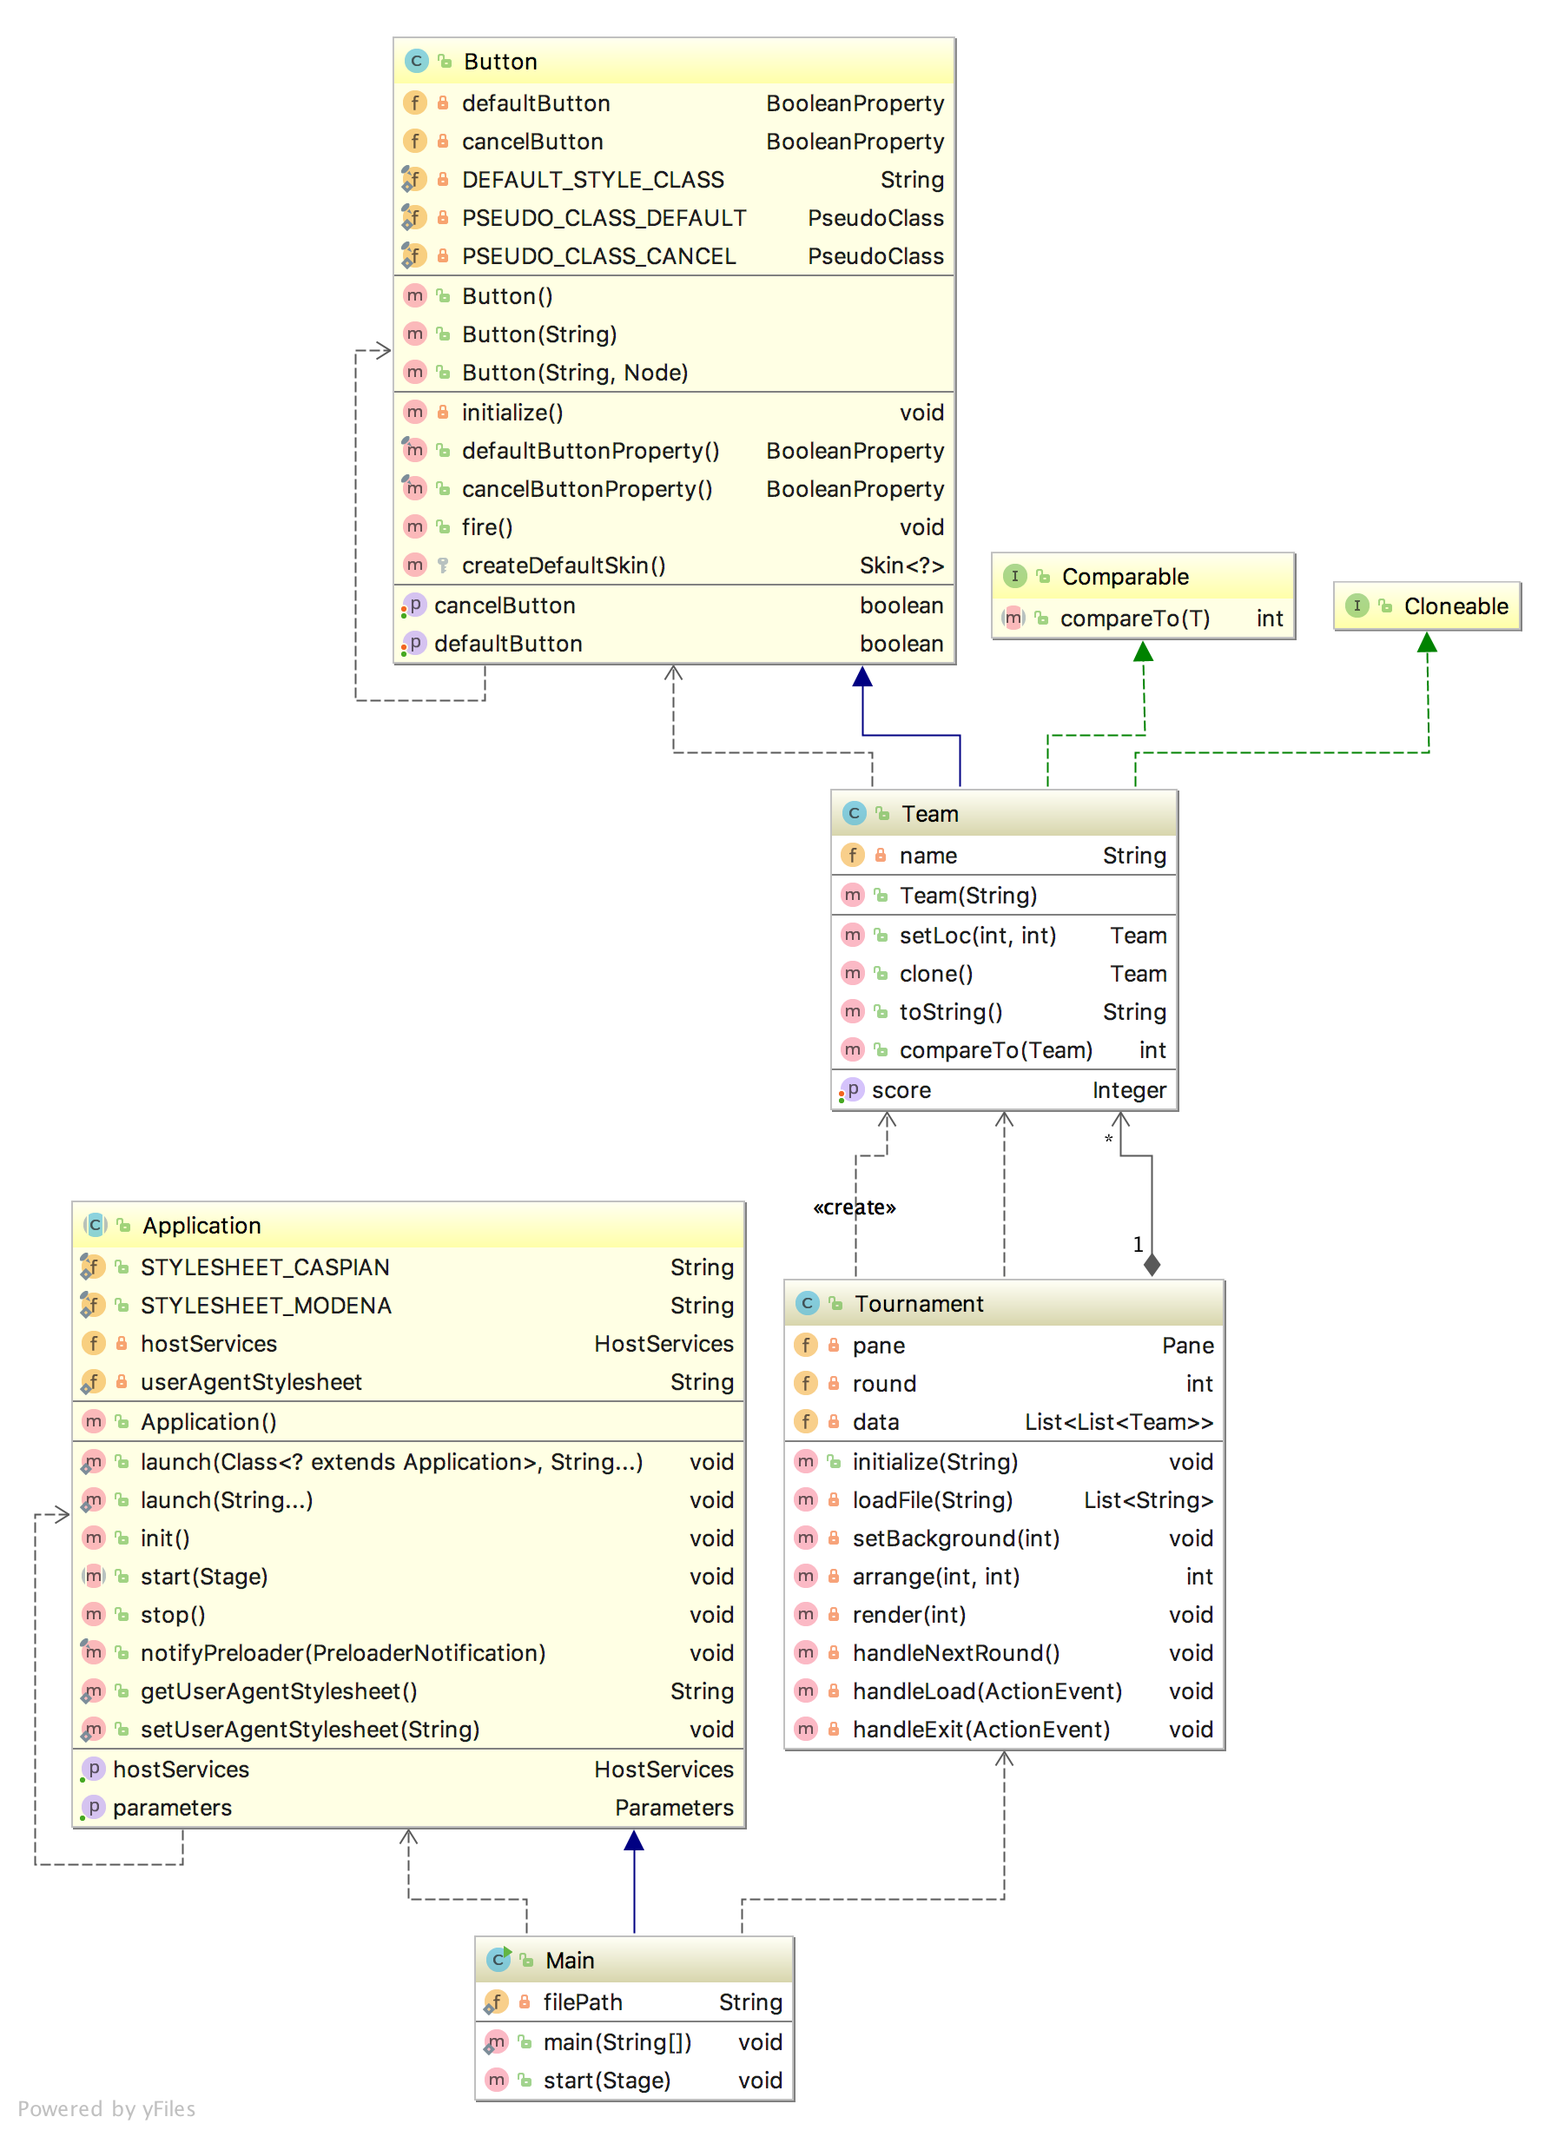
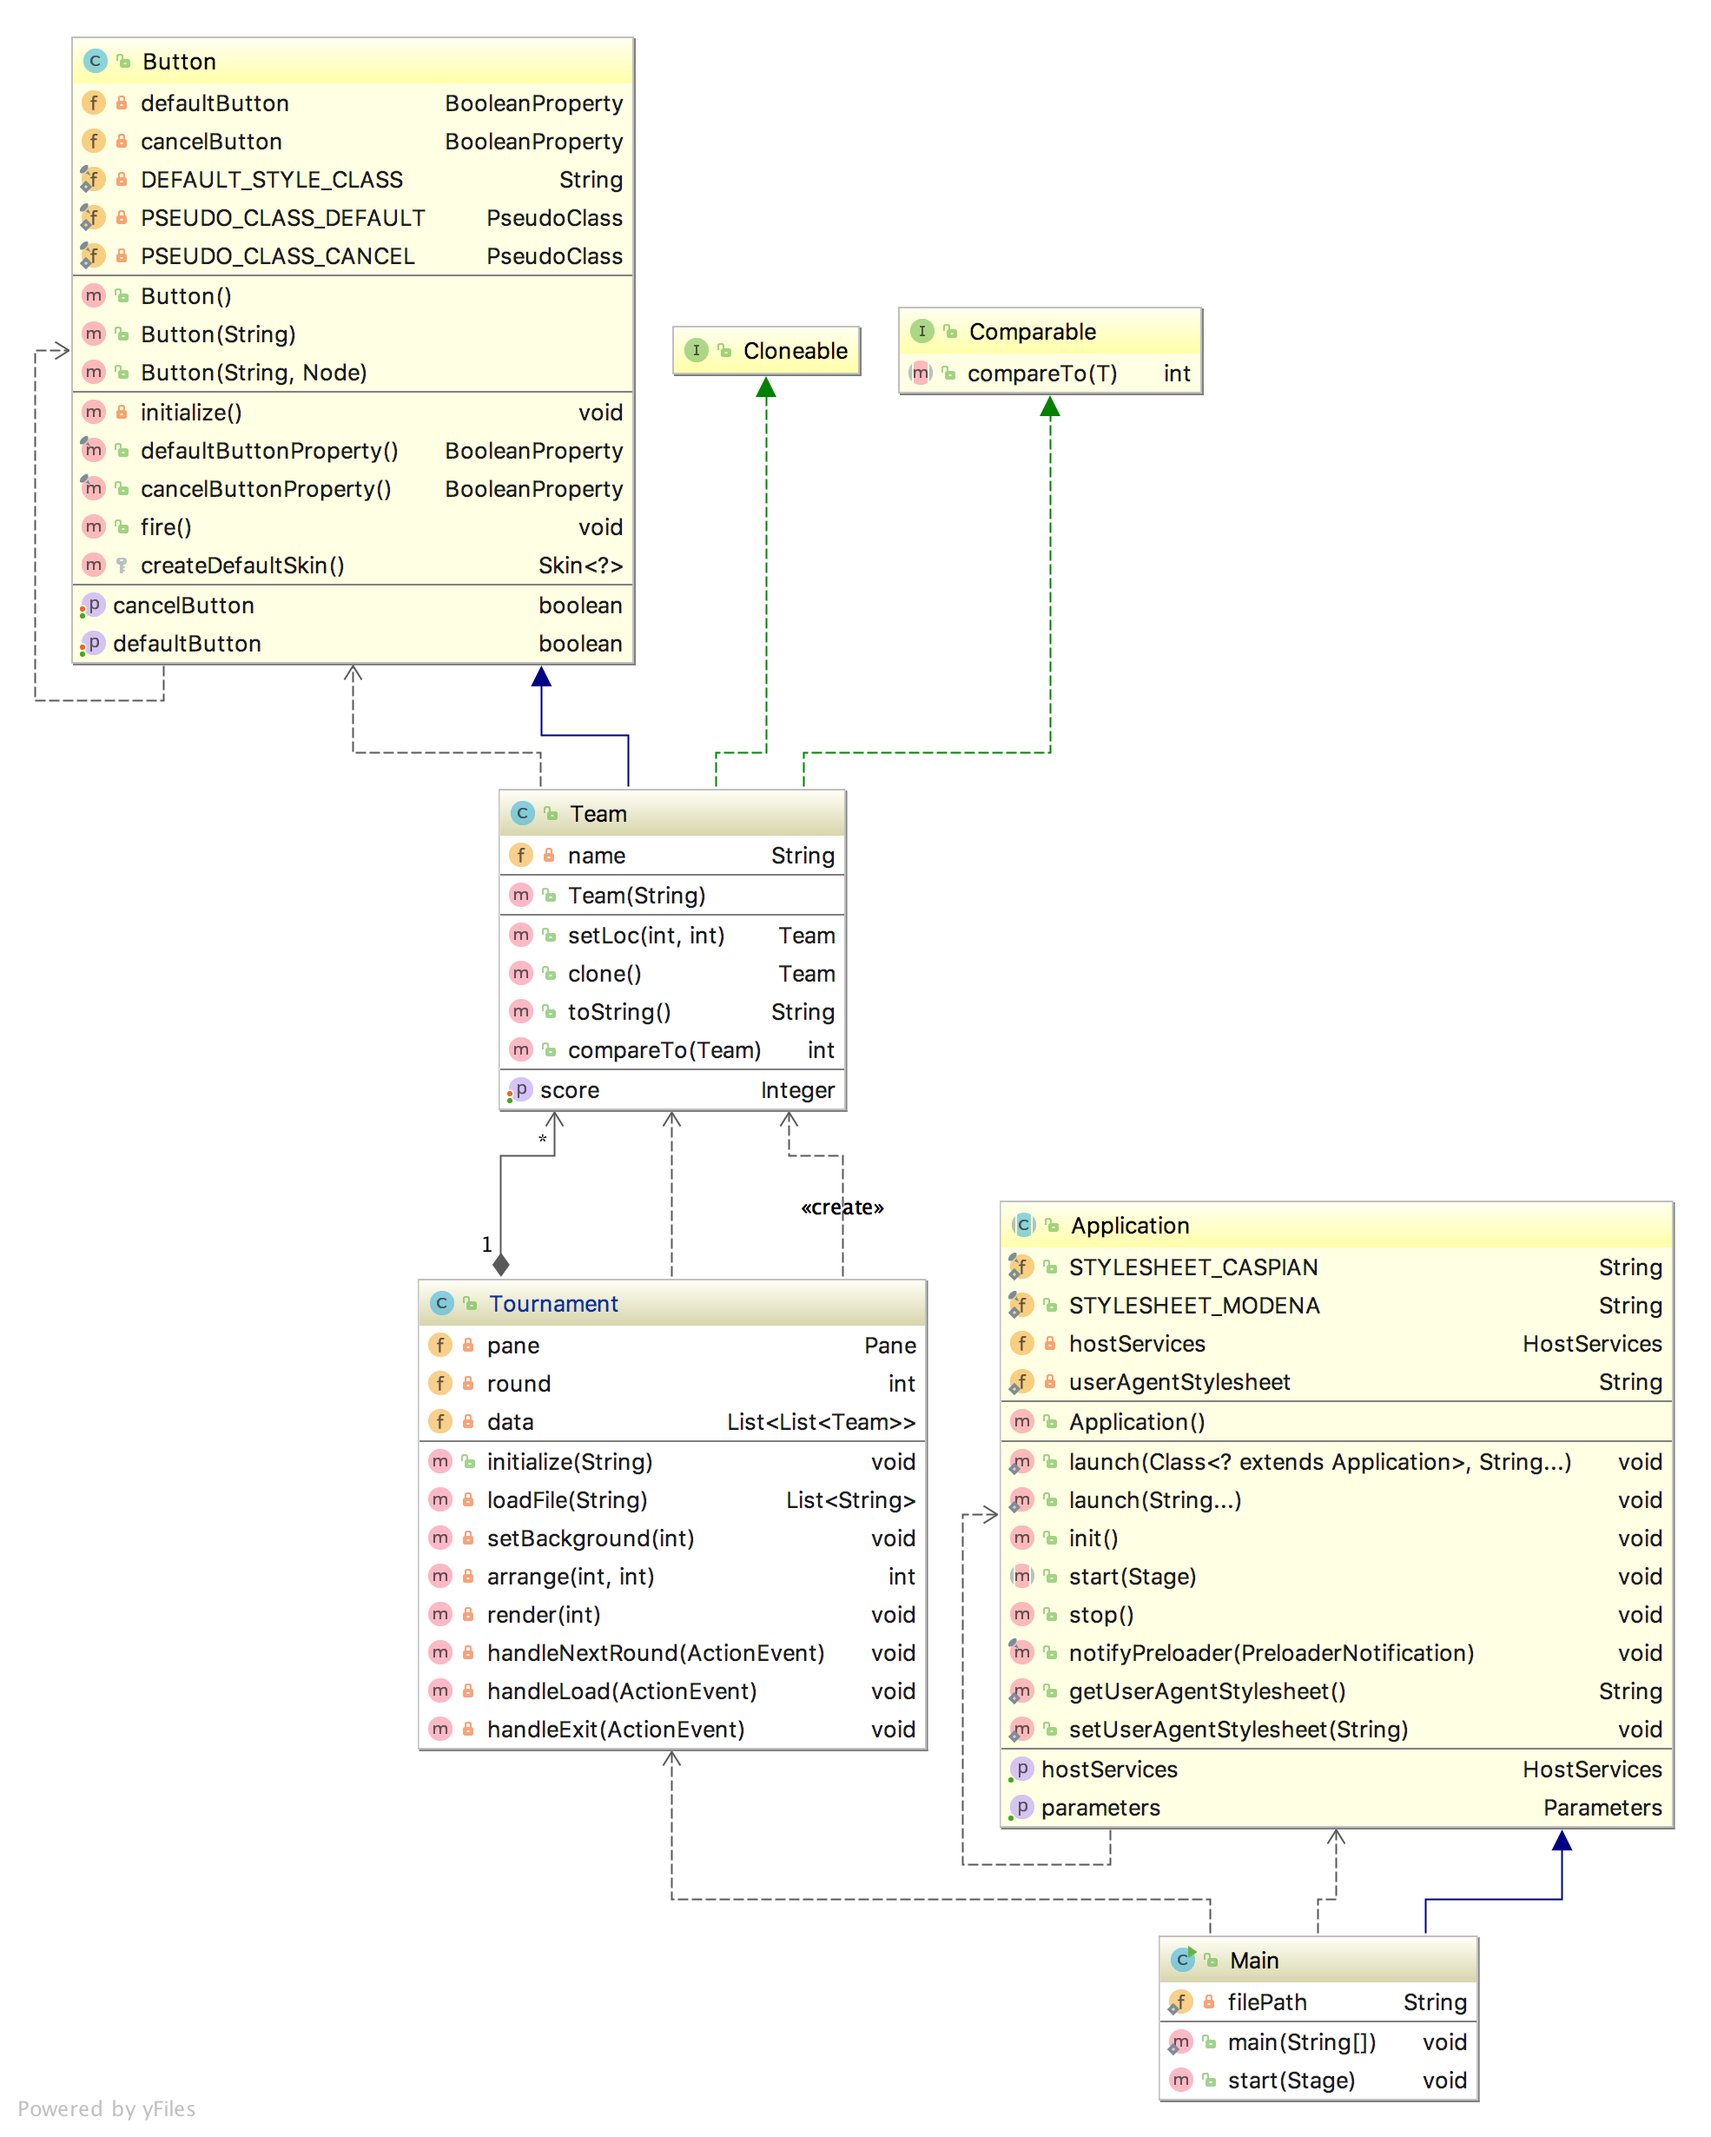
Minor

diff --git a/src/application/Tournament.java b/src/application/Tournament.java
@@ -109,7 +109,7 @@ public class Tournament {
 
 
     @FXML
-    private void handleNextRound() {
+    private void handleNextRound(ActionEvent event) {
 //Option 1: Do not show everything util all teams' scores are entered
         try {
             for (int i = 0; i < data.get(round).size() / 2; i++) {
